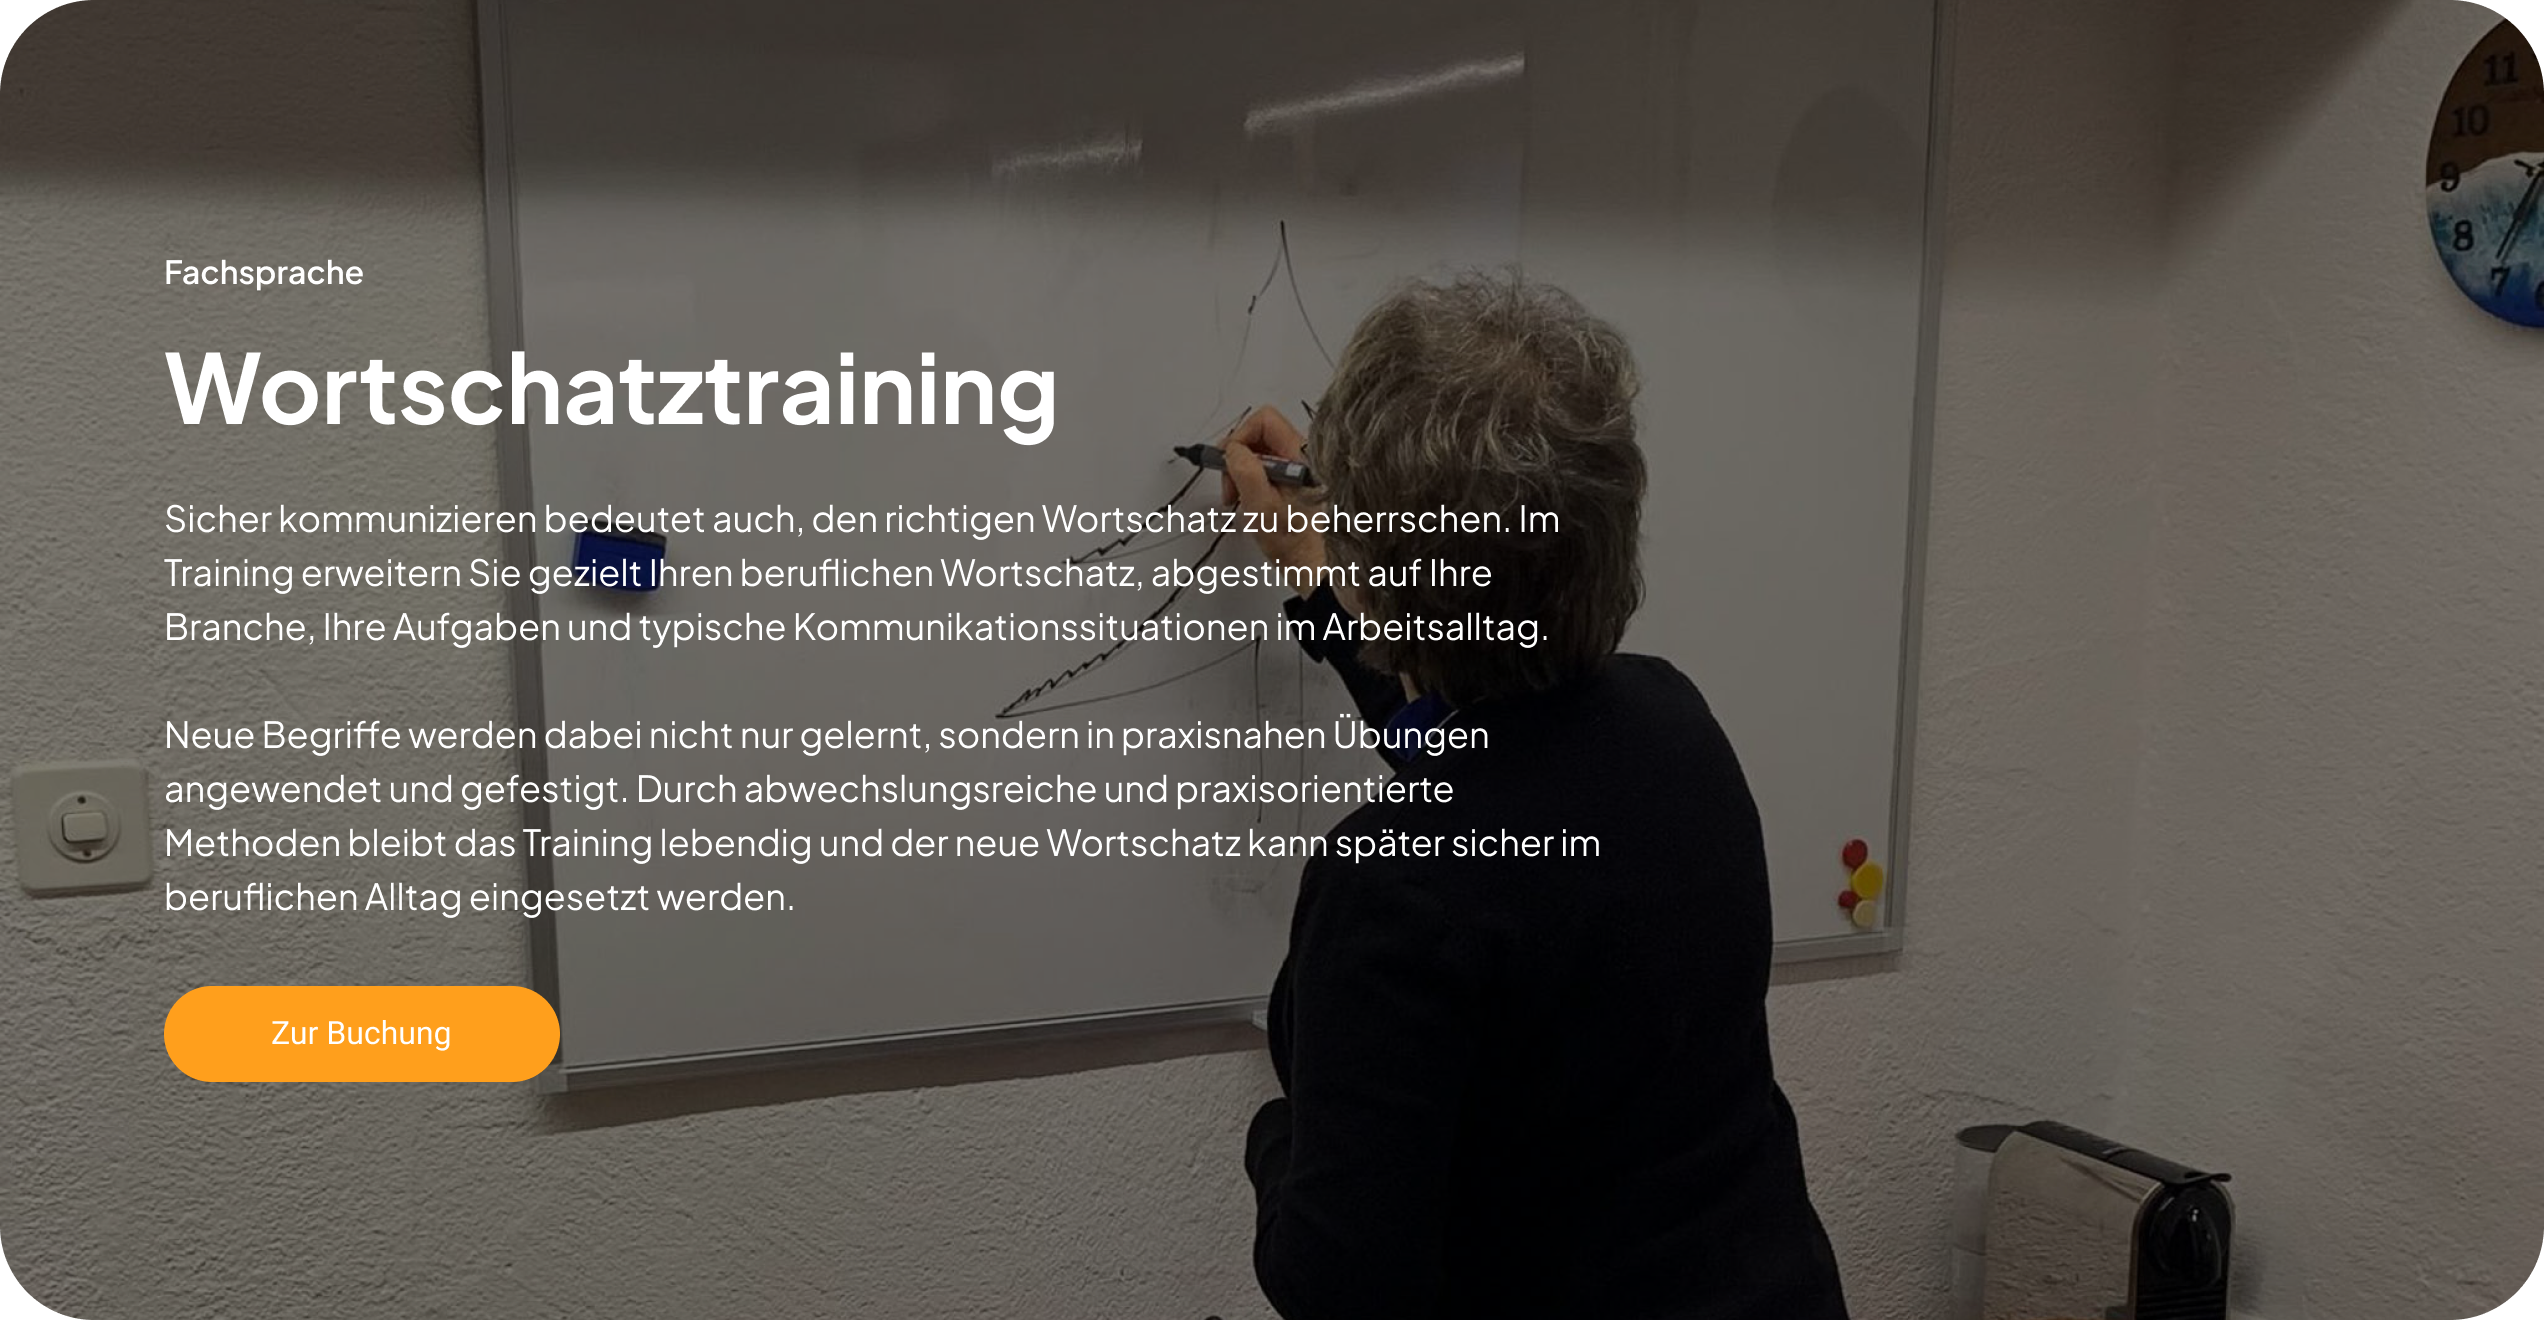
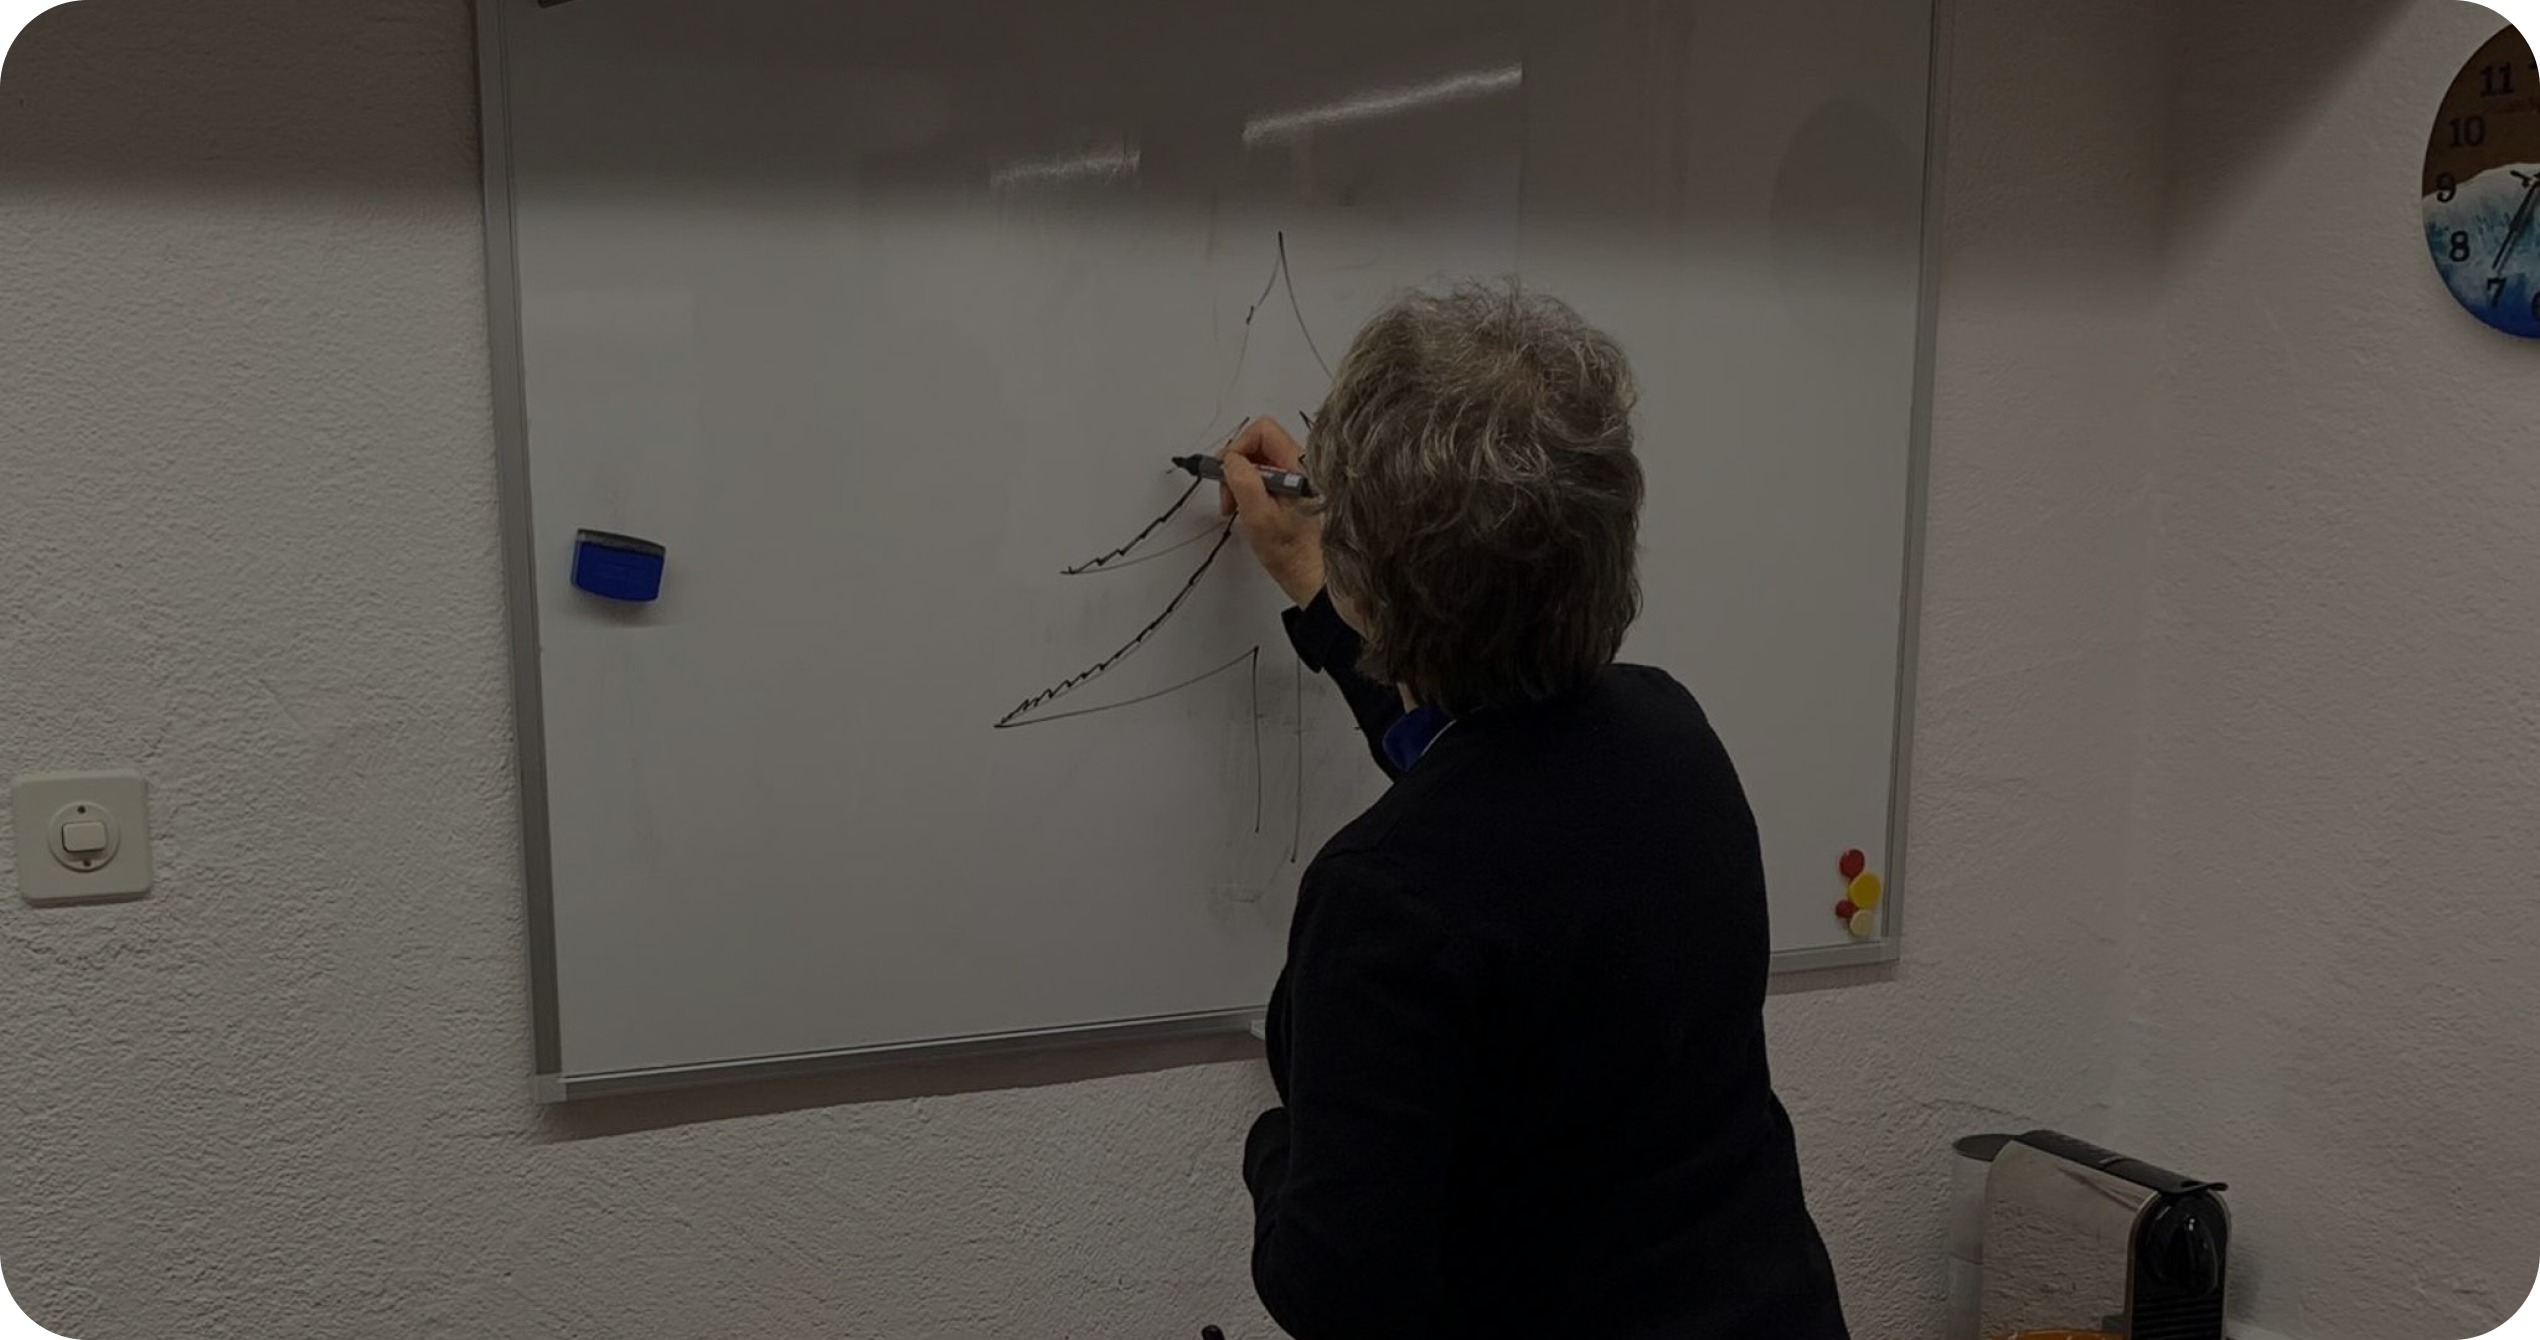
Refresh In Unternehmen and Übersetzungen background assets from Figma.
Update export scripts with current node IDs and Figma-accurate image cropping for offer, hero, and CTA sections.

diff --git a/components/sections/SectionUbersetzungenHero.vue b/components/sections/SectionUbersetzungenHero.vue
@@ -22,8 +22,8 @@
         :src="backgroundImage"
         alt=""
         class="absolute inset-0 h-full w-full object-cover"
-        width="1280"
-        height="564"
+        width="2576"
+        height="1128"
         sizes="(max-width: 768px) 100vw, 1276px"
         loading="eager"
         fetchpriority="high"

diff --git a/components/sections/SectionInUnternehmenOffer.vue b/components/sections/SectionInUnternehmenOffer.vue
@@ -33,8 +33,8 @@
         :src="backgroundImage"
         alt=""
         class="absolute inset-0 h-full w-full object-cover"
-        width="1272"
-        height="660"
+        width="2540"
+        height="1340"
         loading="lazy"
       />
       <div class="absolute inset-0 bg-black/45" />

diff --git a/components/sections/SectionInUnternehmenContactCta.vue b/components/sections/SectionInUnternehmenContactCta.vue
@@ -23,8 +23,8 @@
         :src="backgroundImage"
         alt=""
         class="absolute inset-0 h-full w-full object-cover"
-        width="1272"
-        height="318"
+        width="2544"
+        height="636"
         loading="lazy"
       />
       <div class="absolute inset-0 bg-black/40" />

diff --git a/components/sections/SectionUbersetzungenCta.vue b/components/sections/SectionUbersetzungenCta.vue
@@ -25,8 +25,8 @@
         :src="backgroundImage"
         alt=""
         class="absolute inset-0 h-full w-full object-cover"
-        width="1272"
-        height="318"
+        width="2544"
+        height="636"
         sizes="(max-width: 768px) 100vw, 1272px"
         loading="lazy"
       />
